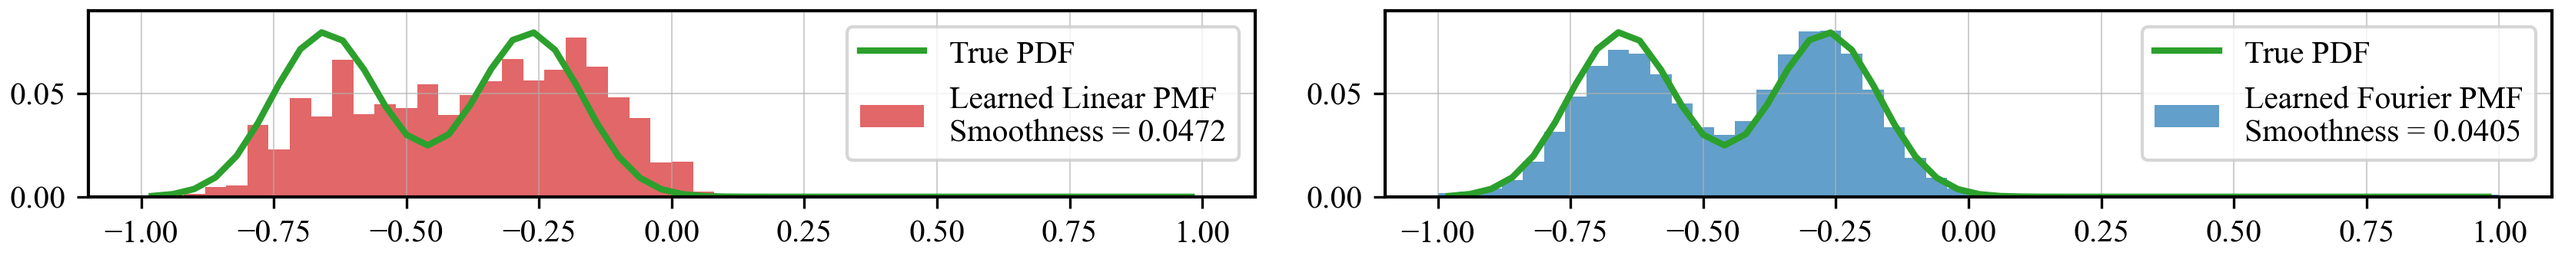
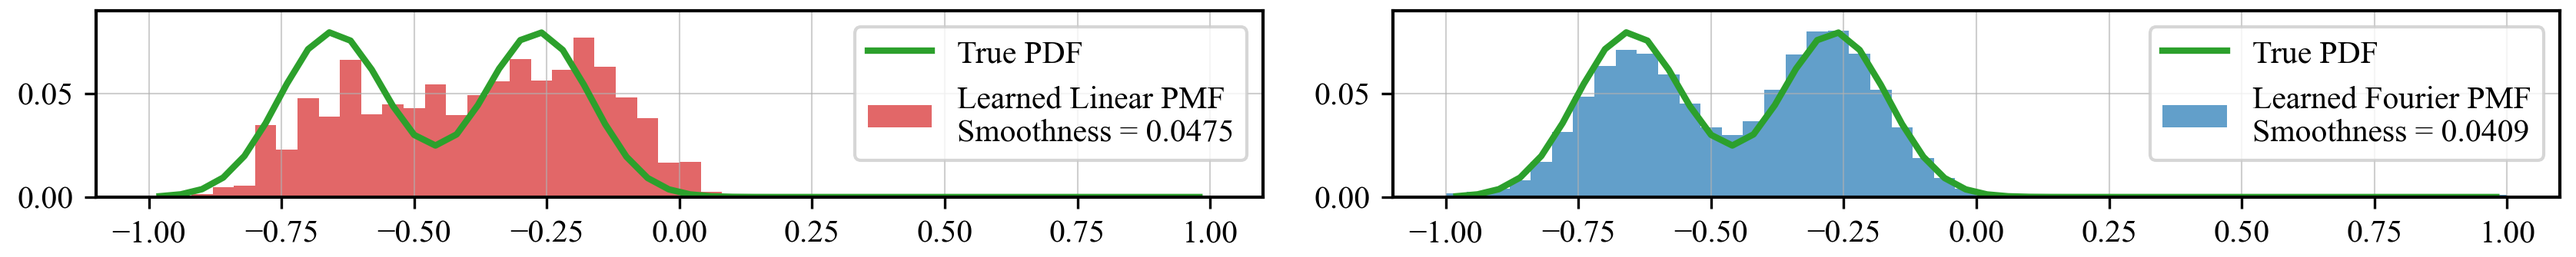
Update fourier head images (#12)
* added better captions

* replaced dt PMF

* removed tic at x=0

* statcounter code

* update image

* editing copy

diff --git a/fourier-head.html b/fourier-head.html
@@ -154,13 +154,13 @@
             <h2 class="subtitle has-text-centered">
               <br><br>
               <em>
-                The Fourier head is a neural network layer which learns a <b>continuous</b> probability<br>
+                The Fourier head is a neural network layer which learns a <b>continuous</b> probability
                 density function using Fourier series, and returns a <b>discrete</b> approximation of it.
               </em>
               <br><br>
               <em>
-                Large language models are often adapted to model non-linguistic tokens.<br>
-                If these tokens have an underlying continuous structure, then replacing the linear<br>
+                Large language models are often adapted to model non-linguistic tokens.
+                If these tokens have an underlying continuous structure, then replacing the linear
                 classification head with the Fourier head can boost downstream performance.
               </em>
             </h2>
@@ -172,6 +172,7 @@
 </section>
 
 
+<section class="hero teaser is-light">
 <div class="your-class">
   <div>
     <div>
@@ -184,12 +185,11 @@
       <div style="max-width: 50%;  margin:0 auto;">
         <h2 class="subtitle has-text-centered">
           <br>
-          We demonstrate how a Fourier head can learn to approximate a square wave.
-          As we increase the number of frequencies, we get a Fourier head with more expressive power.
-          Accordingly, we can see that as the number of frequencies increases, 
-          the Fourier head does a better job approximating the square wave (according to the KL divergence metric), 
-          and it becomes less smooth (according to the smoothness metric).
-          This trend illustrates the Fourier Head Scaling Law in the paper--more frequencies makes it less smooth and gives it more expressive power.
+          We demonstrate how a Fourier head can learn a square wave.
+          <b>As we increase the number of frequencies, 
+          the Fourier head does a better job approximating the square wave,
+          and it becomes less smooth.</b>
+          This trend illustrates the Fourier Head Scaling Law.
           In this example, we consider a Fourier PDF with \(N=1,\dots,64\) frequencies,
           and \(128\) output dimensions.
         </h2>
@@ -201,13 +201,19 @@
       <br>
       <fourier-series-component 
         data-source="fourier-head-static/js/data-mixture-of-gaussians-v1.json"
-        title="Example: The Fourier Head Learns a Mixture of Gaussians">
+        title="Example: The Fourier Head Learns a Gaussian Mixture Model">
       </fourier-series-component>
       <br>
       <div style="max-width: 50%;  margin:0 auto;">
         <h2 class="subtitle has-text-centered">
           <br>
-          We also how a Fourier head can learn to approximate a given mixture of Gaussians.
+          We demonstrate how a Fourier head can learn a GMM.
+          <b>As we increase the number of frequencies, 
+          the Fourier head does a better job approximating the GMM,
+          and it becomes less smooth.</b>
+          This trend illustrates the Fourier Head Scaling Law.
+          In this example, we consider a Fourier PDF with \(N=1,\dots,64\) frequencies,
+          and \(128\) output dimensions.
         </h2>
       </div>
     </div>
@@ -217,18 +223,26 @@
       <br>
       <fourier-series-component 
         data-source="fourier-head-static/js/data-mixture-of-gaussians-v2.json"
-        title="Example: The Fourier Head Learns a Complicated Mixture of Gaussians">
+        title="Example: The Fourier Head Learns a Complicated Gaussian Mixture Model">
       </fourier-series-component>
       <br>
       <div style="max-width: 50%;  margin:0 auto;">
         <h2 class="subtitle has-text-centered">
           <br>
-          We also how a Fourier head can learn to approximate a given mixture of Gaussians.
+          We demonstrate how a Fourier head can learn a complicated GMM.
+          <b>As we increase the number of frequencies, 
+          the Fourier head does a better job approximating the GMM,
+          and it becomes less smooth.</b>
+          This trend illustrates the Fourier Head Scaling Law.
+          In this example, we consider a Fourier PDF with \(N=1,\dots,64\) frequencies,
+          and \(128\) output dimensions.
+          <br>
         </h2>
       </div>
     </div>
   </div>
 </div>
+</section>
 
 <script type="text/javascript">
   $(document).ready(function(){
@@ -281,14 +295,14 @@
             using a decoder-only LLM to model the distribution over the discrete action space for an Atari agent.
             However, when adapting LLMs to non-linguistic domains, it remains unclear if softmax over discrete bins 
             captures the continuous structure of the tokens and the potentially complex distributions needed for high quality token generation.
-            We introduce a neural network layer, constructed using Fourier series, which we can easily substitute 
-            for any linear layer if we want the outputs to have a more continuous structure.
+            <b>We introduce a neural network layer, constructed using Fourier series, which we can easily substitute 
+            for any linear layer if we want the outputs to have a more continuous structure.</b>
             We perform extensive analysis on synthetic datasets, as well as on large-scale decision making and time series forecasting tasks.
             We also provide theoretical evidence that this layer can better learn signal from data while ignoring high-frequency noise.
             All of our results support the effectiveness of our proposed Fourier head in scenarios where the 
             underlying data distribution has a natural continuous structure.
-            For example, the Fourier head improves a Decision Transformer agent's returns by 46% on the Atari 
-            Seaquest game, and increases a state-of-the-art times series foundation model's forecasting performance by 3.5% across 20 benchmarks unseen during training.
+            For example, <b>the Fourier head improves a Decision Transformer agent's returns by 46% on the Atari 
+            Seaquest game, and increases a state-of-the-art times series foundation model's forecasting performance by 3.5% across 20 benchmarks unseen during training.</b>
           </p>
         </div>
       </div>
@@ -315,7 +329,7 @@
         We observe that a standard <b><FONT COLOR="#E06768">linear classification head</FONT></b>  fails to distinguish between the two modes, 
         and overfits to high-frequency noise in the training set.
         In contrast, our proposed <b><FONT COLOR="#62A0CA">Fourier head</FONT></b> learns a smoother, more accurate categorical distribution.
-        Our paper provides theoretical justification for the Fourier head, as well as empirical justification, on a large scale imitation learing task,
+        Our paper provides theoretical justification for the Fourier head, as well as empirical justification on a large scale imitation learning task,
         and a time series foundation model pretraining task.
       </h2>
     </div>
@@ -326,24 +340,32 @@
   <div class="container is-max-desktop">
     <div class="hero-body">
       <br>
-      <h2 class="subtitle has-text-centered">
-        Large-scale example #1: <b><FONT COLOR="#62A0CA">Fourier head</FONT></b> increases returns of an Atari agent by 46%.
+      <h2 class="title is-4 has-text-centered">
+        <b>Large-scale example #1: <b><FONT COLOR="#62A0CA">Fourier head</FONT></b> increases returns of an Atari agent by 46%.</b>
       </h2>
+      <br>
       <h2 class="subtitle has-text-centered">
         <img src="fourier-head-static/images/atari_graph_varying_freqs.png" alt="MY ALT TEXT"/>
       </h2>
       <h2 class="subtitle has-text-justified">
-        We present a next-action distributions for two different Decision Transformer agents--one trained to predict the next action 
-        using a <b><FONT COLOR="#E06768">linear classification head</FONT></b>, and the other using our proposed
-        <b><FONT COLOR="#62A0CA">Fourier head</FONT></b>.
-        We can see that the <b><FONT COLOR="#62A0CA">Fourier</FONT></b> agent produces a "clump" of actions that is semantically meaningful.
-        Namely, this agent almost certainly wants to shoot in the up direction, and is considering shooting up left or up right.
-        This is presumably because the agent need to move in that general direction to rescue a diver, but because there is a submarine behind it.
-        In contrast, the <b><FONT COLOR="#E06768">linear</FONT></b> agent's next-action distribution doesn't clearly depict a strategy.
-        Our theoretical results show that the model's accurancy increases as the quantity of Fourier frequencies increases.
+        <b>We replace the linear classification head in the Decision Transformer agent with a Fourier head.</b>
+        We find that the Decision Transformer agent with the <b><FONT COLOR="#62A0CA">Fourier head</FONT></b> 
+        achieves larger returns than the baseline agent with the <b><FONT COLOR="#E06768">linear head</FONT></b>, 
+        so long as the Fourier head has sufficiently many frequencies.
+        We also find that the Fourier agent's returns have lower variance.
       </h2>
       <h2 class="subtitle has-text-centered">
-        <img src="fourier-head-static/images/atari_graph_PMFs-158.png" alt="MY ALT TEXT"/>
+        <img src="fourier-head-static/images/atari_graph_PMFs-65.png" alt="MY ALT TEXT"/>
+      </h2>
+      <h2 class="subtitle has-text-justified">
+        We present next-action distribution examples for two different Decision Transformer agents--one trained to predict the next action 
+        using a <b><FONT COLOR="#E06768">linear classification head</FONT></b> as in the original implementation, 
+        and the other using our proposed <b><FONT COLOR="#62A0CA">Fourier head</FONT></b>.
+        We can see that the <b><FONT COLOR="#62A0CA">Fourier</FONT></b> agent produces a "clump" of actions that is semantically meaningful.
+        Namely, this agent almost certainly wants to shoot in the down right or right direction, presumably because there is a submarine in that direction.
+        In contrast, the <b><FONT COLOR="#E06768">linear</FONT></b> agent's next-action distribution doesn't clearly depict a strategy, 
+        and assigns higher likelihoods to incorrect actions.
+        <b>Because the Fourier head outputs a smoother PMF, it concentrates more probability mass near the correct action, resulting in better returns.</b>
       </h2>
     </div>
   </div>
@@ -353,21 +375,27 @@
   <div class="container is-max-desktop">
     <div class="hero-body">
       <br>
-      <h2 class="subtitle has-text-centered">
+      <h2 class="title is-4 has-text-centered">
         Large-scale example #2: <b><FONT COLOR="#62A0CA">Fourier head</FONT></b> improves time series forecasting accuracy.
       </h2>
+      <br>
       <h2 class="subtitle has-text-centered">
         <img src="fourier-head-static/images/chronos_results.png" alt="MY ALT TEXT" style="width: 70%">
       </h2>
       <h2 class="subtitle has-text-justified">
-        We present a next-value distribution for two different time series foundation models--one trained to predict the 
+        <b>We replace the linear classification head in the Chronos time series foundation model with a Fourier head.</b>
+        We find that the model with the <b><FONT COLOR="#62A0CA">Fourier head</FONT></b> 
+        achieves better forecasting accuracy than the baseline model with the <b><FONT COLOR="#E06768">linear head</FONT></b>.
+      </h2>
+      <h2 class="subtitle has-text-centered">
+        <img src="fourier-head-static/images/chronos-PMF.png" alt="MY ALT TEXT" style="width: 85%"/>
+      </h2>
+      <h2 class="subtitle has-text-justified">
+        We present next-value distribution examples for two different time series foundation models--one trained to predict the 
         next quantized value using a <b><FONT COLOR="#E06768">linear classification head</FONT></b>, and the other using 
         our proposed <b><FONT COLOR="#62A0CA">Fourier head</FONT></b>.
         We can see that the <b><FONT COLOR="#62A0CA">Fourier head</FONT></b> model produces a smoother next-action distribution
         than the <b><FONT COLOR="#E06768">linear head</FONT></b>.
-      </h2>
-      <h2 class="subtitle has-text-centered">
-        <img src="fourier-head-static/images/chronos-PMF.png" alt="MY ALT TEXT" style="width: 85%"/>
       </h2>
     </div>
   </div>
@@ -392,6 +420,7 @@
         and quantizes the interval \([-1, 1]\) into \( m \) equal bins.
         Then, the Fourier head evaluates the learned Fourier PDF at those \( m \) bin center points, 
         and returns those \( m \) likelihoods as a categorical distribution.
+        <b>We include a PyTorch implementation at the github link, as well as many examples of its usage.</b>
       </h2>
     </div>
   </div>
@@ -442,6 +471,24 @@
     </div>
   </div>
 </footer>
+
+<!-- Default Statcounter code for Fourier Head project page
+https://nategillman.com/fourier-head -->
+<script type="text/javascript">
+  var sc_project=13050285; 
+  var sc_invisible=1; 
+  var sc_security="486448f6"; 
+  </script>
+  <script type="text/javascript"
+  src="https://www.statcounter.com/counter/counter.js"
+  async></script>
+  <noscript><div class="statcounter"><a title="Web Analytics"
+  href="https://statcounter.com/" target="_blank"><img
+  class="statcounter"
+  src="https://c.statcounter.com/13050285/0/486448f6/1/"
+  alt="Web Analytics"
+  referrerPolicy="no-referrer-when-downgrade"></a></div></noscript>
+  <!-- End of Statcounter Code -->
 
   </body>
   </html>

diff --git a/fourier-head-static/js/fourier-series-component.js b/fourier-head-static/js/fourier-series-component.js
@@ -224,7 +224,7 @@ class FourierSeriesComponent extends HTMLElement {
         this.ctx.fillText('y', xAxisCenter + 10, 20);
 
         // X-axis ticks (-1 to 1)
-        for (let i = -2; i <= 2; i += 1.0) {
+        for (let i = -1.0; i <= 2; i += 2.0) {
             const x = this.mapX(i);
             this.ctx.beginPath();
             this.ctx.moveTo(x, this.mainCanvas.height - y_offset);
